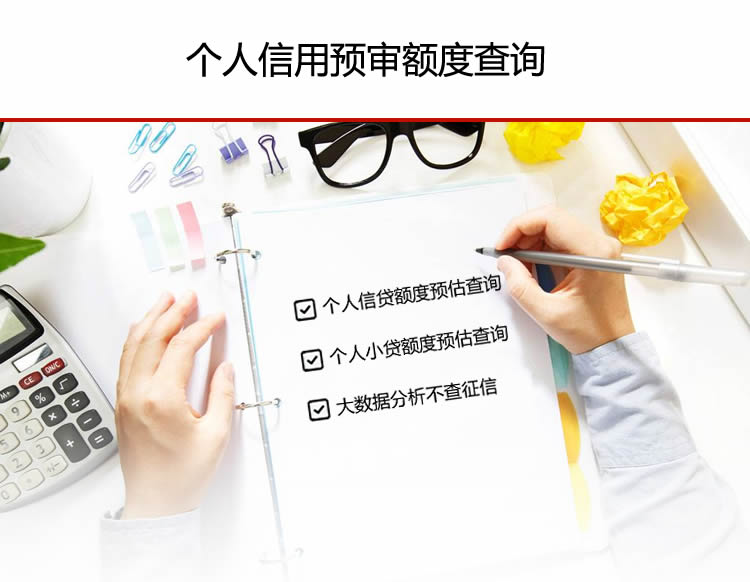
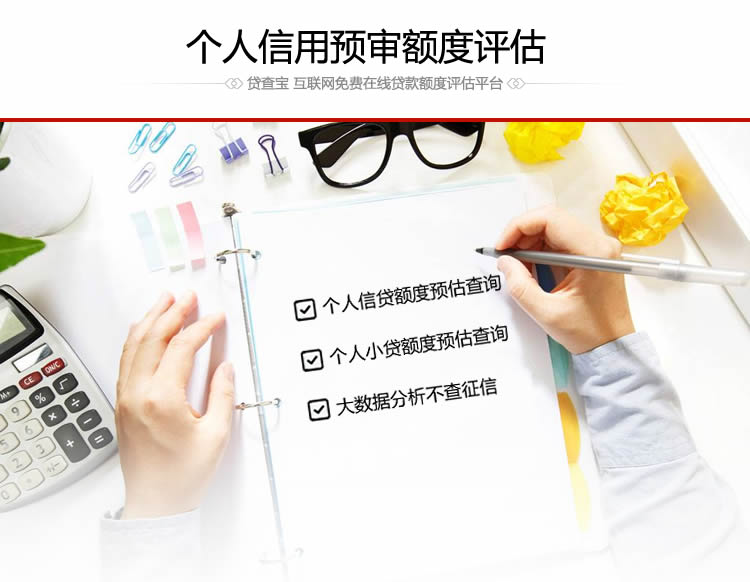
6666666666

Changed region(s): [[0.2453, 0.0309, 0.736, 0.1546]]

diff --git a/index.html b/index.html
@@ -83,9 +83,9 @@
         
         
         <p class="lp-m-tips"></p>
-        <div class="lp-m-submit">开始查询额度</div>
-        <div class="lp-m-submit2" id="emsBtn">开始查询额度</div>
-        <div class="lp-m-submit3" id="errorDownloadApp">开始查询额度</div>
+        <div class="lp-m-submit">立即评估</div>
+        <div class="lp-m-submit2" id="emsBtn">立即评估</div>
+        <div class="lp-m-submit3" id="errorDownloadApp">立即评估</div>
         <div class="lp-m-down">查询表示已阅读并同意<a id="appLogin" href="#">《查询与服务协议》</a></div>
     </div>
     
@@ -97,15 +97,14 @@
     
     <div class="footer">
       <span id="unster"><a href="#">贷查宝 个人额度一目了然</a></span><br><br>
-      <a href="http://daichabao.100zhi.com/pause.html">666</a>
       <p>艺创电软科技(四川)有限公司</p>
-      <p>  蜀ICP备16025527号</p>
+      <p>蜀ICP备16025527号</p>
       <p>温馨提示：额度预估报告仅供参考，报告仅为大数据分析结果</p>
       <p>免责申明：贷查宝仅提供个人额度预估查询 金融服务均为第三方公司提供</p>
     </div>
     
     <div class="bottom-btn-main" id="bottomBtnMain">
-      <div class="bottom-btn">开始查询额度</div>
+      <div class="bottom-btn">立即评估</div>
     </div>
     
     <div class="yxd-loading-main" id="loading">
@@ -113,7 +112,7 @@
         <div class="yxd-loading-gif">
         <img src="code/images/loading.gif" alt="">
         </div>
-      <p>报告生产中 请稍后...</p>
+      <p>报告评估中 请稍后...</p>
       </div>
     </div>
 	
